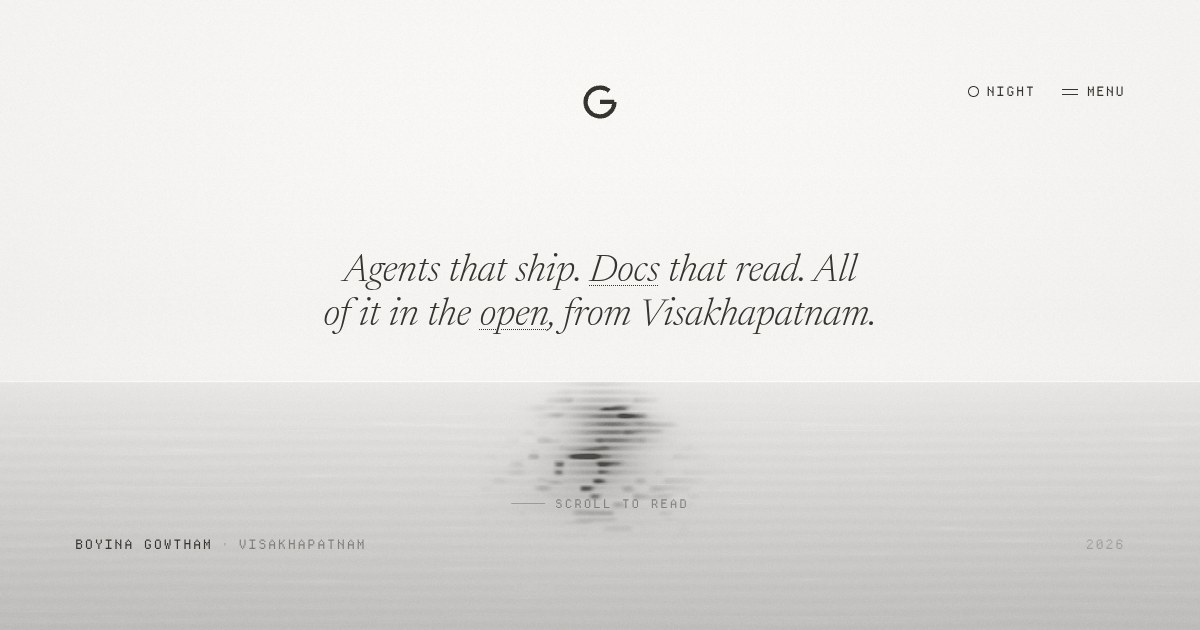
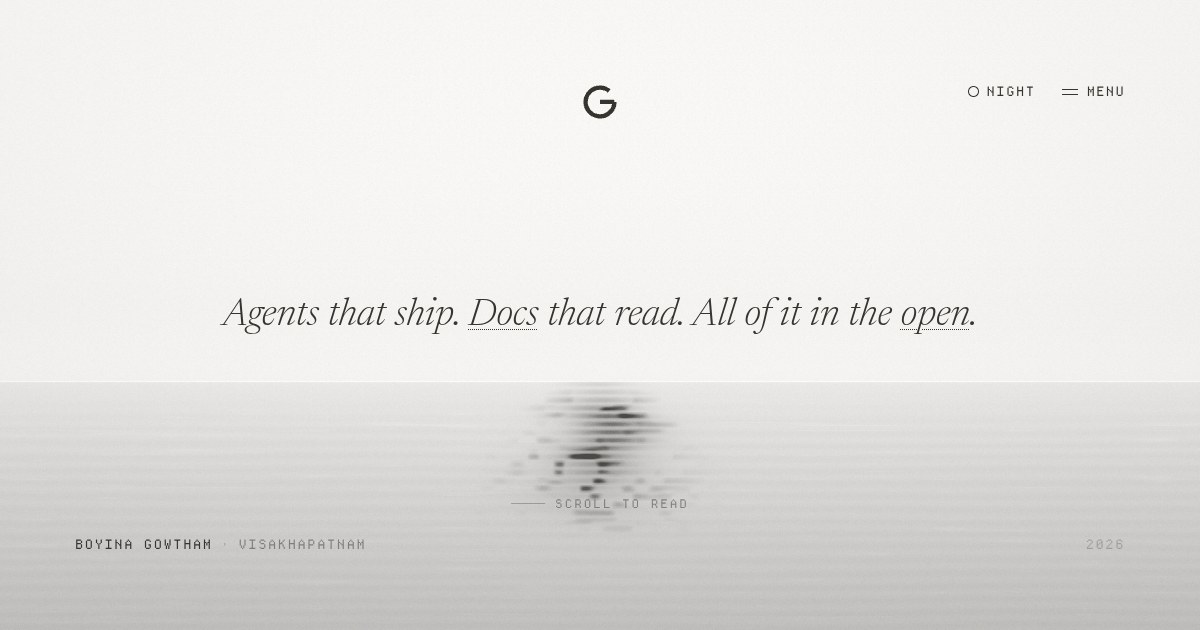
Rework copy and work rows: juteq.ca, McKinsey Forward, no em dashes
- Hero now ends at "All of it in the open." (city stays in the About
  eyebrow, footer and colophon); share card regenerated to match
- About lead rewritten, no longer repeats the city
- All em dashes replaced with commas, colons or parentheses site-wide
  (titles, meta, cert list); AI-pattern wording swapped out
- Juteq links fixed to https://juteq.ca
- Added McKinsey Forward (Forward Learner) certification group,
  course count 25 to 26
- Work rows de-congested: Code link pinned to the name line at every
  width, rows padded 44/46px, description at 1rem / 58ch, stack spaced

Generated by Mistral Vibe.

Changed region(s): [[0.185, 0.3921, 0.8017, 0.5429]]

diff --git a/index.html b/index.html
@@ -4,23 +4,23 @@
   <meta charset="UTF-8">
   <meta name="viewport" content="width=device-width, initial-scale=1.0">
 
-  <title>Boyina Gowtham — AI engineer, technical writer</title>
-  <meta name="description" content="Boyina Gowtham builds agentic systems end to end — orchestration, retrieval, evaluation — and writes the documentation that makes them usable. Open source contributor in Python, TypeScript and Rust.">
+  <title>Boyina Gowtham · AI engineer, technical writer</title>
+  <meta name="description" content="Boyina Gowtham builds agentic systems end to end (orchestration, retrieval, evaluation) and writes the documentation that makes them usable. Open source contributor in Python, TypeScript and Rust.">
   <meta name="author" content="Boyina Gowtham">
   <meta name="theme-color" content="#faf9f6" media="(prefers-color-scheme: light)">
   <meta name="theme-color" content="#1b1a18" media="(prefers-color-scheme: dark)">
 
   <meta property="og:type" content="website">
-  <meta property="og:title" content="Boyina Gowtham — AI engineer, technical writer">
+  <meta property="og:title" content="Boyina Gowtham · AI engineer, technical writer">
   <meta property="og:description" content="Builds agentic systems end to end, and writes the documentation that makes them usable.">
   <meta property="og:site_name" content="Boyina Gowtham">
   <meta property="og:url" content="https://moah0911.github.io/">
   <meta property="og:image" content="https://moah0911.github.io/assets/og.jpg">
   <meta property="og:image:width" content="1200">
   <meta property="og:image:height" content="630">
-  <meta property="og:image:alt" content="Boyina Gowtham — a star above a pale sea, and its reflection.">
+  <meta property="og:image:alt" content="Boyina Gowtham: a star above a pale sea, and its reflection.">
   <meta name="twitter:card" content="summary_large_image">
-  <meta name="twitter:title" content="Boyina Gowtham — AI engineer, technical writer">
+  <meta name="twitter:title" content="Boyina Gowtham · AI engineer, technical writer">
   <meta name="twitter:description" content="Builds agentic systems end to end, and writes the documentation that makes them usable.">
   <meta name="twitter:image" content="https://moah0911.github.io/assets/og.jpg">
 
@@ -48,7 +48,7 @@
 
   <div class="site-frame">
     <header class="site-header">
-      <a class="mark-link" href="#top" aria-label="Boyina Gowtham — back to top">
+      <a class="mark-link" href="#top" aria-label="Boyina Gowtham, back to top">
         <svg viewBox="0 0 96 96" role="img" aria-hidden="true" focusable="false">
           <path d="M67.28 25.02A30 30 0 1 0 78 48M48 48H78" fill="none" stroke="currentColor" stroke-width="9"/>
         </svg>
@@ -94,8 +94,7 @@
       <section class="hero" aria-label="Introduction">
         <p class="hero-line">
           Agents that ship. <a class="hero-link" href="https://thegowtham.medium.com/" target="_blank" rel="noopener noreferrer">Docs</a> that read.
-          All of it in the <a class="hero-link" href="https://github.com/moah0911" target="_blank" rel="noopener noreferrer">open</a>,
-          from Visakhapatnam.
+          All of it in the <a class="hero-link" href="https://github.com/moah0911" target="_blank" rel="noopener noreferrer">open</a>.
         </p>
 
         <p class="hero-foot"><span class="thread" aria-hidden="true"></span> scroll to read</p>
@@ -112,9 +111,9 @@
             </div>
 
             <p class="prose lead">
-              I'm Boyina Gowtham — AI engineer and technical writer. I build agentic systems end to end —
-              orchestration, retrieval, evaluation — and then write the documentation
-              that makes them usable by someone who did not build them.
+              I'm Boyina Gowtham, an AI engineer and technical writer.
+              I build agentic systems end to end (orchestration, retrieval, evaluation),
+              then write the documentation for the person who didn't build them.
             </p>
 
             <div class="prose" style="margin-top: 1.1em;">
@@ -127,10 +126,10 @@
                 the retry semantics, the schema and the failure message.
               </p>
               <p>
-                I write about the same things for developers — weekly deep-dives on agent
-                architectures and developer tooling on Medium, long-form guides on AI
-                economics at Juteq — and I submit the bugs I find upstream rather than
-                filing them in a notebook.
+                I write about the same things: weekly posts on agent architectures and
+                developer tooling on Medium, and long-form guides on AI economics at Juteq.
+                Bugs I find in other people's projects go upstream as pull requests, not
+                into a notebook.
               </p>
             </div>
 
@@ -158,7 +157,7 @@
           <section class="section" id="experience">
             <div class="section-head">
               <p class="eyebrow"><span class="num">02</span> Experience</p>
-              <p class="head-note">2024 — 2026</p>
+              <p class="head-note">2024–2026</p>
             </div>
 
             <div class="timeline">
@@ -166,7 +165,7 @@
                 <p class="entry-when">Mar – Aug<br>2026</p>
                 <div>
                   <h3 class="entry-role">Technical Content Writer (Intern)</h3>
-                  <p class="entry-org"><a href="https://juteq.com" target="_blank" rel="noopener noreferrer">Juteq</a></p>
+                  <p class="entry-org"><a href="https://juteq.ca" target="_blank" rel="noopener noreferrer">Juteq</a></p>
                   <p class="entry-body">
                     Write highly technical content on AI, agents and AI economics, for two
                     audiences that never share a page: developers who need the mechanism,
@@ -182,8 +181,8 @@
                   <p class="entry-org">NIT Warangal · Dr. Tene Ramakrishnudu</p>
                   <p class="entry-body">
                     A 60-day research internship on <em>Quantum Multi-Sentence Coherence
-                    Modeling using Entanglement-Based Semantic Representations</em> — using
-                    the structure of quantum states to represent how sentences in a
+                    Modeling using Entanglement-Based Semantic Representations</em>, where
+                    the structure of quantum states stands in for how sentences in a
                     paragraph hold together.
                   </p>
                 </div>
@@ -205,7 +204,7 @@
               <article class="entry">
                 <p class="entry-when">Apr 2025 –<br>Jan 2026</p>
                 <div>
-                  <h3 class="entry-role">Campus Mantri — Community Lead</h3>
+                  <h3 class="entry-role">Campus Mantri, Community Lead</h3>
                   <p class="entry-org">GeeksforGeeks, MVGR College of Engineering</p>
                   <ul class="entry-points">
                     <li>Built and led a 200-member campus community.</li>
@@ -220,9 +219,9 @@
                   <h3 class="entry-role">Technical Blog Writer</h3>
                   <p class="entry-org"><a href="https://thegowtham.medium.com/" target="_blank" rel="noopener noreferrer">Medium</a></p>
                   <p class="entry-body">
-                    Deep-dives on LLM architectures, agent frameworks and open-source
-                    developer tools, written for people who are going to implement them.
-                    Featured in Towards AI and Level Up Coding.
+                    Posts on LLM architectures, agent frameworks and open-source developer
+                    tools, written for the people who will implement them. Featured in
+                    Towards AI and Level Up Coding.
                   </p>
                 </div>
               </article>
@@ -234,7 +233,7 @@
                   <p class="entry-org"><a href="https://crossstack.in" target="_blank" rel="noopener noreferrer">CrossStack</a></p>
                   <p class="entry-body">
                     Organise developer meetups, buildathons and workshops across campus and
-                    the city — speakers, logistics and the content in between.
+                    the city: speakers, logistics and the content in between.
                   </p>
                 </div>
               </article>
@@ -267,7 +266,7 @@
                   <a class="link-quiet" href="https://github.com/moah0911/kettle" target="_blank" rel="noopener noreferrer">Code <span class="up" aria-hidden="true">↗</span></a>
                 </div>
                 <p class="work-desc">
-                  A self-hosted agent team that turns a request into a reviewed pull request —
+                  A self-hosted agent team that turns a request into a reviewed pull request:
                   triage, spec, implement, then a review by a <em>different vendor's</em> model,
                   capped at two revision cycles. The factory is configuration; the
                   orchestration is durable.
@@ -282,9 +281,9 @@
                 </div>
                 <p class="work-desc">
                   A CLI that reads clinical PDFs, images and plain text, then links diagnoses
-                  to ICD-10, medications to RxNorm and procedures to SNOMED CT — every mapping
-                  carrying a confidence score, with a Bedrock fallback when the terminology
-                  services miss.
+                  to ICD-10, medications to RxNorm and procedures to SNOMED CT. Every mapping
+                  carries a confidence score, and lookups fall back to Bedrock when the
+                  terminology services miss.
                 </p>
                 <p class="work-stack">Python · Strands Agents · Amazon Bedrock · NLM Clinical Tables</p>
               </article>
@@ -295,7 +294,7 @@
                   <a class="link-quiet" href="https://github.com/moah0911/sick" target="_blank" rel="noopener noreferrer">Code <span class="up" aria-hidden="true">↗</span></a>
                 </div>
                 <p class="work-desc">
-                  An object-oriented coding agent that reads, writes and edits code — and
+                  An object-oriented coding agent that reads, writes and edits code, and
                   patches its own source to get better at it. Attach files with
                   <code>@file</code>, drop to a shell with <code>!cmd</code>, and let it keep
                   experience memory between runs.
@@ -337,8 +336,8 @@
                   <a class="link-quiet" href="https://github.com/moah0911/Ignisengine" target="_blank" rel="noopener noreferrer">Code <span class="up" aria-hidden="true">↗</span></a>
                 </div>
                 <p class="work-desc">
-                  Six specialised agents — security, product, dev, QA, prioritisation,
-                  synthesis — turn one sentence into a complete PRD, streamed over SSE with
+                  Six specialised agents (security, product, dev, QA, prioritisation,
+                  synthesis) turn one sentence into a complete PRD, streamed over SSE with
                   Markdown and PDF export.
                 </p>
                 <p class="work-stack">Python · Gemini 2.0 Flash · Flask · Supabase</p>
@@ -346,7 +345,7 @@
             </div>
 
             <p class="os-note">
-              Also —
+              Also:
               <a href="https://github.com/moah0911/contextify" target="_blank" rel="noopener noreferrer">Contextify</a>, a scraper that turns a shared AI chat into a structured context file;
               <a href="https://github.com/moah0911/Demon" target="_blank" rel="noopener noreferrer">Demon</a>, a Rust interpreter with a garbage collector;
               <a href="https://github.com/moah0911/algozen" target="_blank" rel="noopener noreferrer">AlgoZen</a>, 55 modules on PyPI;
@@ -390,7 +389,7 @@
                 <h3 class="os-repo"><span><span class="owner">awslabs/</span>cli-agent-orchestrator</span> <span class="lang">Python · Oct 2026</span></h3>
                 <p class="os-what">
                   Terminal ids are eight hex characters, and after a terminal was deleted
-                  its id stayed resolvable for fourteen days through the idempotency table —
+                  its id stayed resolvable for fourteen days through the idempotency table,
                   so a retry could resolve to a stale terminal. Fix plus a new test file.
                 </p>
                 <div class="os-links">
@@ -452,21 +451,21 @@
             <div class="writing-grid">
               <a class="write-card" href="https://thegowtham.medium.com/" target="_blank" rel="noopener noreferrer">
                 <p class="write-source">Medium · 343 followers</p>
-                <p class="write-title">Deep-dives on LLM architectures and agent frameworks</p>
+                <p class="write-title">Hands-on posts on LLM architectures and agent frameworks</p>
                 <p class="write-desc">
-                  Practical implementation rather than overviews: stateful agents, LLM
-                  councils, the software lifecycle for AI systems. Featured in Towards AI
-                  and Level Up Coding.
+                  Concrete builds, not overviews: stateful agents, LLM councils, the
+                  software lifecycle for AI systems. Featured in Towards AI and
+                  Level Up Coding.
                 </p>
                 <span class="link-quiet">Read <span class="up" aria-hidden="true">↗</span></span>
               </a>
 
-              <a class="write-card" href="https://juteq.com" target="_blank" rel="noopener noreferrer">
+              <a class="write-card" href="https://juteq.ca" target="_blank" rel="noopener noreferrer">
                 <p class="write-source">Juteq · 2026</p>
                 <p class="write-title">Technical guides on AI, agents and AI economics</p>
                 <p class="write-desc">
-                  Long-form work for two audiences at once — the engineering mechanism for
-                  developers, the cost and risk framing for the people signing off on it.
+                  Long-form work for two audiences at once: the mechanism for developers,
+                  and the cost and risk for the people signing off on it.
                 </p>
                 <span class="link-quiet">Visit <span class="up" aria-hidden="true">↗</span></span>
               </a>
@@ -556,7 +555,7 @@
           <section class="section" id="certifications">
             <div class="section-head">
               <p class="eyebrow"><span class="num">07</span> Certifications</p>
-              <p class="head-note">25 courses</p>
+              <p class="head-note">26 courses</p>
             </div>
 
             <div class="cert-groups">
@@ -577,9 +576,9 @@
               <details class="cert-group">
                 <summary>Cisco Networking Academy <span class="count">5 · 2024–2026</span><span class="sign" aria-hidden="true"></span></summary>
                 <ul class="cert-list">
-                  <li>CCNA 1 — Introduction to Networks (Dec 2025)</li>
-                  <li>CCNA 2 — Switching, Routing and Wireless Essentials (May 2026)</li>
-                  <li>CCNA 3 — Enterprise Networking, Security and Automation (May 2026)</li>
+                  <li>CCNA 1: Introduction to Networks (Dec 2025)</li>
+                  <li>CCNA 2: Switching, Routing and Wireless Essentials (May 2026)</li>
+                  <li>CCNA 3: Enterprise Networking, Security and Automation (May 2026)</li>
                   <li>Python Essentials 1 (Dec 2024)</li>
                   <li>Python Essentials 2 (Mar 2025)</li>
                 </ul>
@@ -588,11 +587,11 @@
               <details class="cert-group">
                 <summary>NPTEL <span class="count">5 · 2025–2026</span><span class="sign" aria-hidden="true"></span></summary>
                 <ul class="cert-list">
-                  <li>Deep Learning — 70%</li>
-                  <li>Natural Language Processing — 60%</li>
-                  <li>Strategic Management — 64%</li>
-                  <li>Cryptography and Network Security — 62%</li>
-                  <li>Software Engineering — 47%</li>
+                  <li>Deep Learning, 70%</li>
+                  <li>Natural Language Processing, 60%</li>
+                  <li>Strategic Management, 64%</li>
+                  <li>Cryptography and Network Security, 62%</li>
+                  <li>Software Engineering, 47%</li>
                 </ul>
               </details>
 
@@ -601,17 +600,24 @@
                 <ul class="cert-list">
                   <li>Introduction to Data Science</li>
                   <li>Introduction to Modern AI</li>
-                  <li>Apply AI — Analyze Customer Reviews</li>
+                  <li>Apply AI: Analyze Customer Reviews</li>
                 </ul>
               </details>
 
               <details class="cert-group">
                 <summary>Anthropic, NVIDIA and IBM <span class="count">4 · 2025</span><span class="sign" aria-hidden="true"></span></summary>
                 <ul class="cert-list">
-                  <li>Claude Code in Action — Anthropic, via Skilljar (Jul 2025)</li>
-                  <li>Building LLM Applications with Prompt Engineering — NVIDIA (May 2025)</li>
-                  <li>Python for Data Science, AI and Development — IBM, via Coursera (Feb 2025)</li>
-                  <li>Enterprise Design Thinking Practitioner — IBM SkillsBuild (Oct 2025)</li>
+                  <li>Claude Code in Action (Anthropic via Skilljar, Jul 2025)</li>
+                  <li>Building LLM Applications with Prompt Engineering (NVIDIA, May 2025)</li>
+                  <li>Python for Data Science, AI and Development (IBM via Coursera, Feb 2025)</li>
+                  <li>Enterprise Design Thinking Practitioner (IBM SkillsBuild, Oct 2025)</li>
+                </ul>
+              </details>
+
+              <details class="cert-group">
+                <summary>McKinsey Forward <span class="count">1</span><span class="sign" aria-hidden="true"></span></summary>
+                <ul class="cert-list">
+                  <li>Forward Learner</li>
                 </ul>
               </details>
             </div>

diff --git a/assets/styles.css b/assets/styles.css
@@ -845,7 +845,7 @@ code {
 }
 
 .work-item {
-  padding: 34px 0 36px;
+  padding: 44px 0 46px;
   border-bottom: 1px solid var(--rule);
 }
 
@@ -866,16 +866,16 @@ code {
 }
 
 .work-desc {
-  margin-top: 12px;
-  max-width: 62ch;
+  margin-top: 16px;
+  max-width: 58ch;
   font-family: var(--serif);
-  font-size: 0.9375rem;
-  line-height: 1.62;
+  font-size: 1rem;
+  line-height: 1.66;
   color: var(--ink-soft);
 }
 
 .work-stack {
-  margin-top: 12px;
+  margin-top: 18px;
   font-size: var(--text-xs);
   letter-spacing: 0.05em;
   color: var(--ink-faint);
@@ -885,6 +885,7 @@ code {
   display: inline-flex;
   align-items: center;
   gap: 5px;
+  white-space: nowrap;
   font-size: var(--text-xs);
   letter-spacing: 0.06em;
   color: var(--ink-faint);
@@ -1401,12 +1402,12 @@ body.menu-open {
   }
 
   .work-item {
-    padding: 26px 0 28px;
+    padding: 34px 0 36px;
   }
 
   .work-head {
-    flex-wrap: wrap;
-    gap: 8px 24px;
+    flex-wrap: nowrap;
+    gap: 8px 16px;
   }
 
   .work-name {
